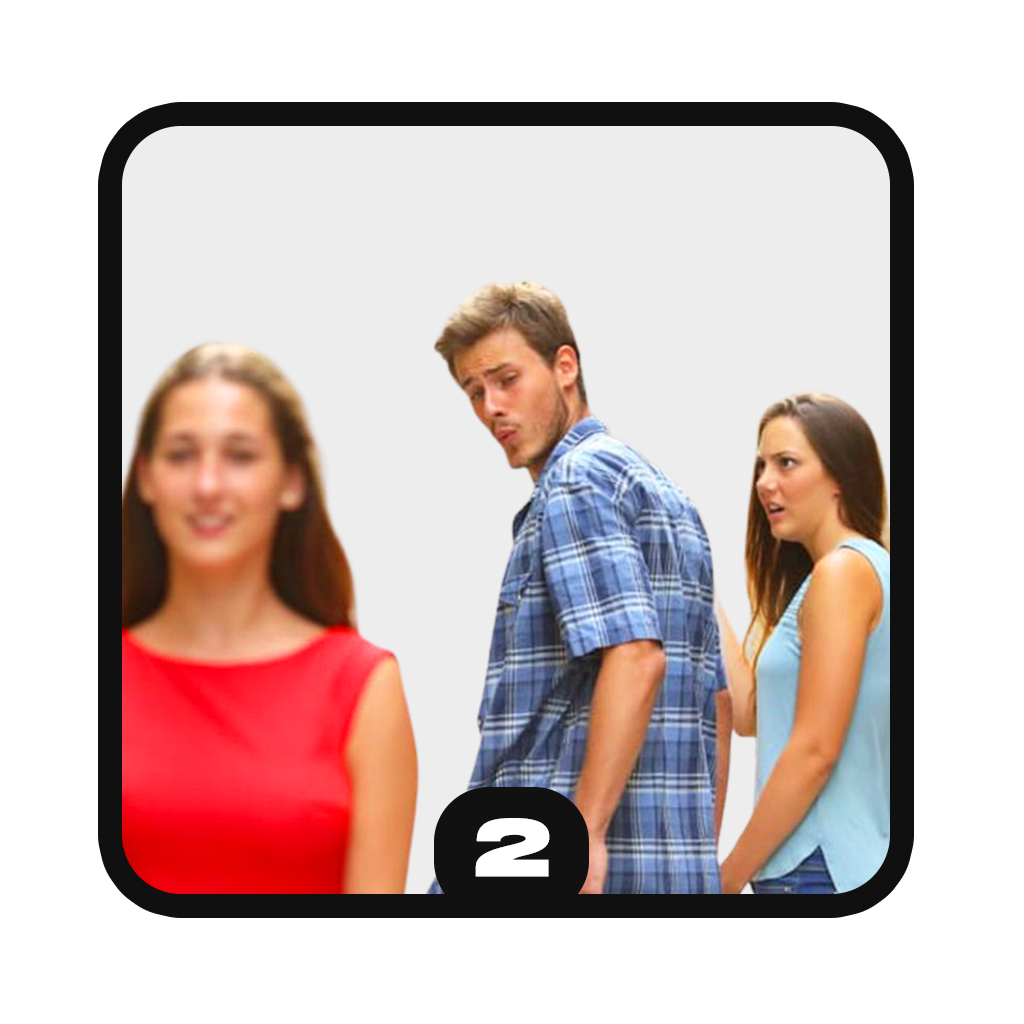
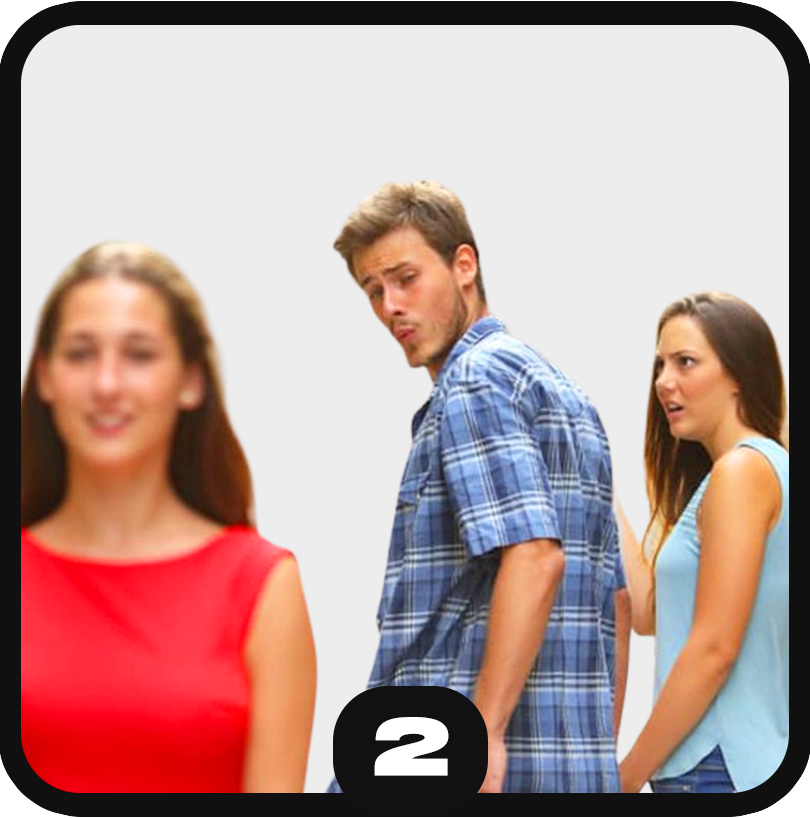
new stuff

diff --git a/index.html b/index.html
@@ -10,26 +10,25 @@
             display: flex;
             justify-content: center;
             align-items: center;
-            min-height: 100vh;
+            height: 100vh;
             margin: 0;
             background-color: #faf8ef;
             user-select: none;
-            overflow: hidden;
         }
 
         .game-container {
             background-color: #bbada0;
-            padding: 2vw;
-            border-radius: 1vw;
+            padding: 15px;
+            border-radius: 10px;
             text-align: center;
-            width: 90vw;
-            max-width: 500px;
-            box-sizing: border-box;
+            width: 95%;
+            max-width: 500px; /* Maximum width for larger screens */
+            margin: 0 auto;
         }
 
         .score-container {
-            margin-bottom: 2vw;
-            font-size: clamp(16px, 4vw, 24px);
+            margin-bottom: 15px;
+            font-size: clamp(18px, 5vw, 24px);
             font-weight: bold;
             color: #776e65;
         }
@@ -37,69 +36,61 @@
         .grid {
             display: grid;
             grid-template-columns: repeat(4, 1fr);
-            grid-gap: 2vw;
+            grid-gap: 2%;
             background-color: #bbada0;
             width: 100%;
-            aspect-ratio: 1 / 1;
+            aspect-ratio: 1/1; /* Keep the grid square */
         }
 
         .tile {
+            width: 100%;
+            aspect-ratio: 1/1; /* Keep tiles square */
             background-color: #cdc1b4;
-            border-radius: 10%; /* Increased for more noticeable rounding */
+            border-radius: 5px;
             display: flex;
             justify-content: center;
             align-items: center;
+            font-size: clamp(16px, 5vw, 40px);
             transition: all 0.1s ease-in-out;
-            aspect-ratio: 1 / 1;
-            overflow: hidden; /* Ensures image corners match tile corners */
-            position: relative; /* For better control over child elements */
         }
 
         .tile:not(:empty) {
-            background-color: transparent; /* Remove background when tile has an image */
+            background-color: #eee4da;
         }
 
         .tile img {
             width: 100%;
             height: 100%;
-            object-fit: cover;
-            border-radius: 10%; /* Match the tile's border-radius */
+            object-fit: fill;
         }
 
-        @media (max-width: 600px) {
+        .controls-info {
+            margin-top: 15px;
+            font-size: clamp(12px, 3vw, 16px);
+            color: #776e65;
+        }
+
+        @media (max-height: 600px) {
             .game-container {
-                padding: 3vw;
-                width: 95vw;
+                padding: 10px;
             }
-
+            
+            .score-container {
+                margin-bottom: 10px;
+            }
+            
             .grid {
-                grid-gap: 1.5vw;
-            }
-
-            .tile {
-                border-radius: 8%;
-            }
-
-            .tile img {
-                border-radius: 8%;
+                grid-gap: 1.5%;
             }
         }
 
-        @media (max-width: 400px) {
+        @media (max-width: 350px) {
             .game-container {
-                padding: 2vw;
+                padding: 8px;
             }
-
+            
             .grid {
-                grid-gap: 1vw;
-            }
-
-            .tile {
-                border-radius: 6%;
-            }
-
-            .tile img {
-                border-radius: 6%;
+                grid-gap: 1%;
             }
         }
     </style>
@@ -108,6 +99,7 @@
     <div class="game-container">
         <div class="score-container" id="score">Score: 0</div>
         <div class="grid" id="gameGrid"></div>
+        <div class="controls-info">Use arrow keys or swipe to play</div>
     </div>
 
     <script>
@@ -131,11 +123,30 @@
                     1024: 'img/1024.png',
                     2048: 'img/2048.png'
                 };
+                
+                // Check if images load correctly, otherwise use text fallback
+                this.useTextFallback = false;
+                this.checkImages();
+                
                 this.initGrid();
                 this.addRandomTile();
                 this.addRandomTile();
                 this.updateDisplay();
                 this.setupControls();
+                
+                // Handle orientation changes
+                window.addEventListener('resize', () => {
+                    this.updateDisplay();
+                });
+            }
+            
+            checkImages() {
+                const testImage = new Image();
+                testImage.onerror = () => {
+                    this.useTextFallback = true;
+                    this.updateDisplay();
+                };
+                testImage.src = this.tileImages[2];
             }
 
             initGrid() {
@@ -155,10 +166,38 @@
                         const tile = tiles[i * 4 + j];
                         const value = this.grid[i][j];
                         tile.innerHTML = '';
+                        
                         if (value) {
-                            const img = document.createElement('img');
-                            img.src = this.tileImages[value];
-                            tile.appendChild(img);
+                            if (this.useTextFallback) {
+                                // Text fallback if images fail to load
+                                tile.textContent = value;
+                                
+                                // Apply background color based on value
+                                const power = Math.log2(value);
+                                const hue = 30 - power * 5;
+                                const lightness = 90 - power * 5;
+                                tile.style.backgroundColor = `hsl(${hue}, 80%, ${lightness}%)`;
+                                
+                                // Adjust text color for readability
+                                tile.style.color = power > 5 ? '#f9f6f2' : '#776e65';
+                                
+                                // Adjust font size for larger numbers
+                                if (value >= 1000) {
+                                    tile.style.fontSize = 'clamp(12px, 4vw, 30px)';
+                                } else if (value >= 100) {
+                                    tile.style.fontSize = 'clamp(14px, 4.5vw, 35px)';
+                                } else {
+                                    tile.style.fontSize = 'clamp(16px, 5vw, 40px)';
+                                }
+                            } else {
+                                // Image-based tiles
+                                const img = document.createElement('img');
+                                img.src = this.tileImages[value];
+                                img.alt = value.toString();
+                                tile.appendChild(img);
+                            }
+                        } else {
+                            tile.style.backgroundColor = '#cdc1b4';
                         }
                     }
                 }
@@ -217,6 +256,13 @@
                     this.score += scoreIncrease;
                     this.addRandomTile();
                     this.updateDisplay();
+                    
+                    // Check for game over
+                    if (this.isGameOver()) {
+                        setTimeout(() => {
+                            alert(`Game Over! Your score: ${this.score}`);
+                        }, 300);
+                    }
                 }
             }
 
@@ -235,6 +281,39 @@
                 while (result.length < 4) result.push(0);
                 return [result, points];
             }
+            
+            isGameOver() {
+                // Check if grid is full
+                let emptyCells = false;
+                for (let i = 0; i < 4; i++) {
+                    for (let j = 0; j < 4; j++) {
+                        if (this.grid[i][j] === 0) {
+                            emptyCells = true;
+                        }
+                    }
+                }
+                
+                if (emptyCells) return false;
+                
+                // Check if any moves are possible
+                for (let i = 0; i < 4; i++) {
+                    for (let j = 0; j < 3; j++) {
+                        if (this.grid[i][j] === this.grid[i][j + 1]) {
+                            return false;
+                        }
+                    }
+                }
+                
+                for (let j = 0; j < 4; j++) {
+                    for (let i = 0; i < 3; i++) {
+                        if (this.grid[i][j] === this.grid[i + 1][j]) {
+                            return false;
+                        }
+                    }
+                }
+                
+                return true;
+            }
 
             setupControls() {
                 let startX = 0;
@@ -242,6 +321,11 @@
                 let endX = 0;
                 let endY = 0;
                 let isDragging = false;
+
+                // Prevent scrolling when swiping within the game container
+                this.gridElement.addEventListener('touchmove', e => {
+                    e.preventDefault();
+                }, { passive: false });
 
                 document.addEventListener('mousedown', e => {
                     startX = e.clientX;
@@ -276,10 +360,22 @@
 
                 document.addEventListener('keydown', e => {
                     switch(e.key) {
-                        case 'ArrowUp': this.move('up'); break;
-                        case 'ArrowDown': this.move('down'); break;
-                        case 'ArrowLeft': this.move('left'); break;
-                        case 'ArrowRight': this.move('right'); break;
+                        case 'ArrowUp': 
+                            e.preventDefault();
+                            this.move('up'); 
+                            break;
+                        case 'ArrowDown': 
+                            e.preventDefault();
+                            this.move('down'); 
+                            break;
+                        case 'ArrowLeft': 
+                            e.preventDefault();
+                            this.move('left'); 
+                            break;
+                        case 'ArrowRight': 
+                            e.preventDefault();
+                            this.move('right'); 
+                            break;
                     }
                 });
             }
@@ -287,7 +383,9 @@
             handleSwipe(startX, startY, endX, endY) {
                 const diffX = endX - startX;
                 const diffY = endY - startY;
-                const minDistance = 30;
+                
+                // Adjust minimum distance based on screen size
+                const minDistance = Math.min(window.innerWidth, window.innerHeight) * 0.05;
 
                 if (Math.abs(diffX) > Math.abs(diffY)) {
                     if (diffX > minDistance) this.move('right');
@@ -299,7 +397,10 @@
             }
         }
 
-        const game = new Game2048();
+        // Initialize game when page loads
+        document.addEventListener('DOMContentLoaded', () => {
+            const game = new Game2048();
+        });
     </script>
 </body>
 </html>
